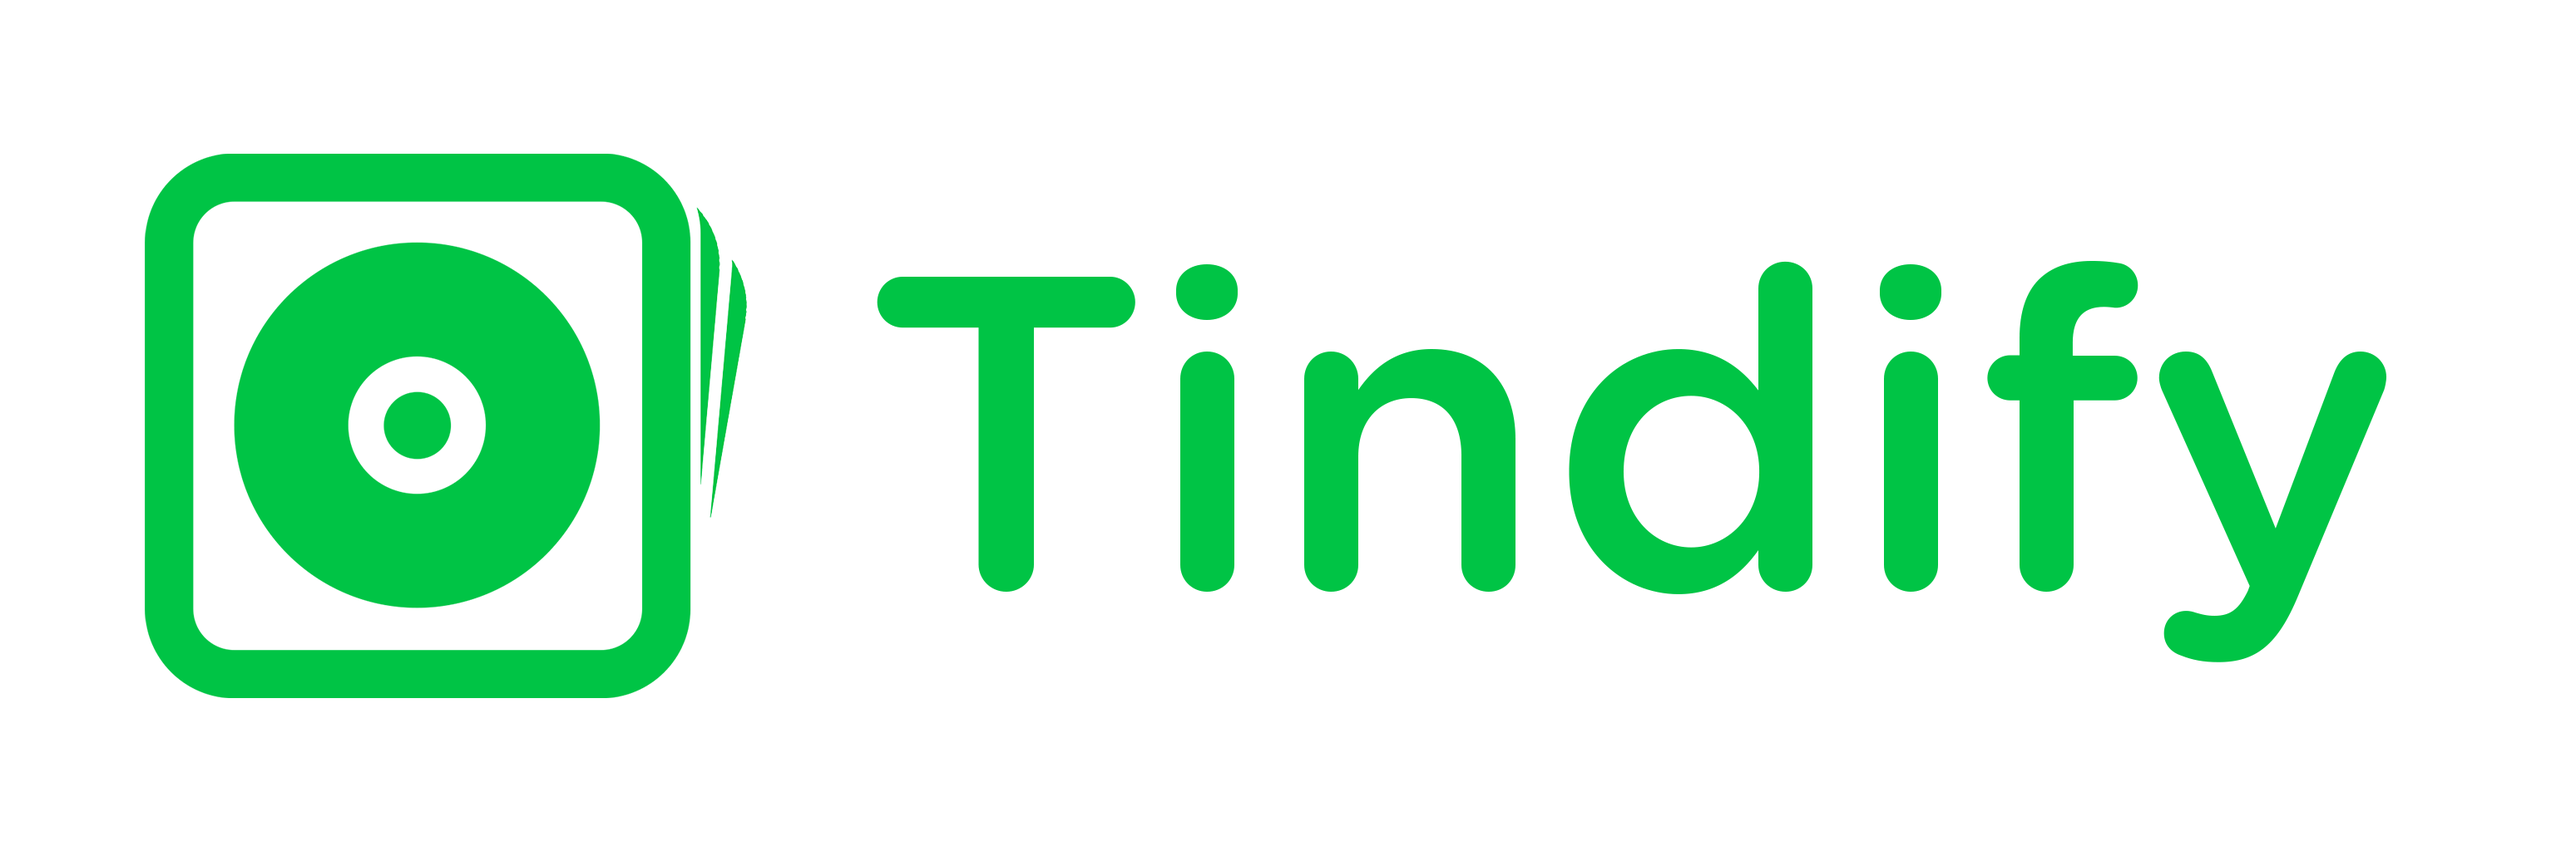
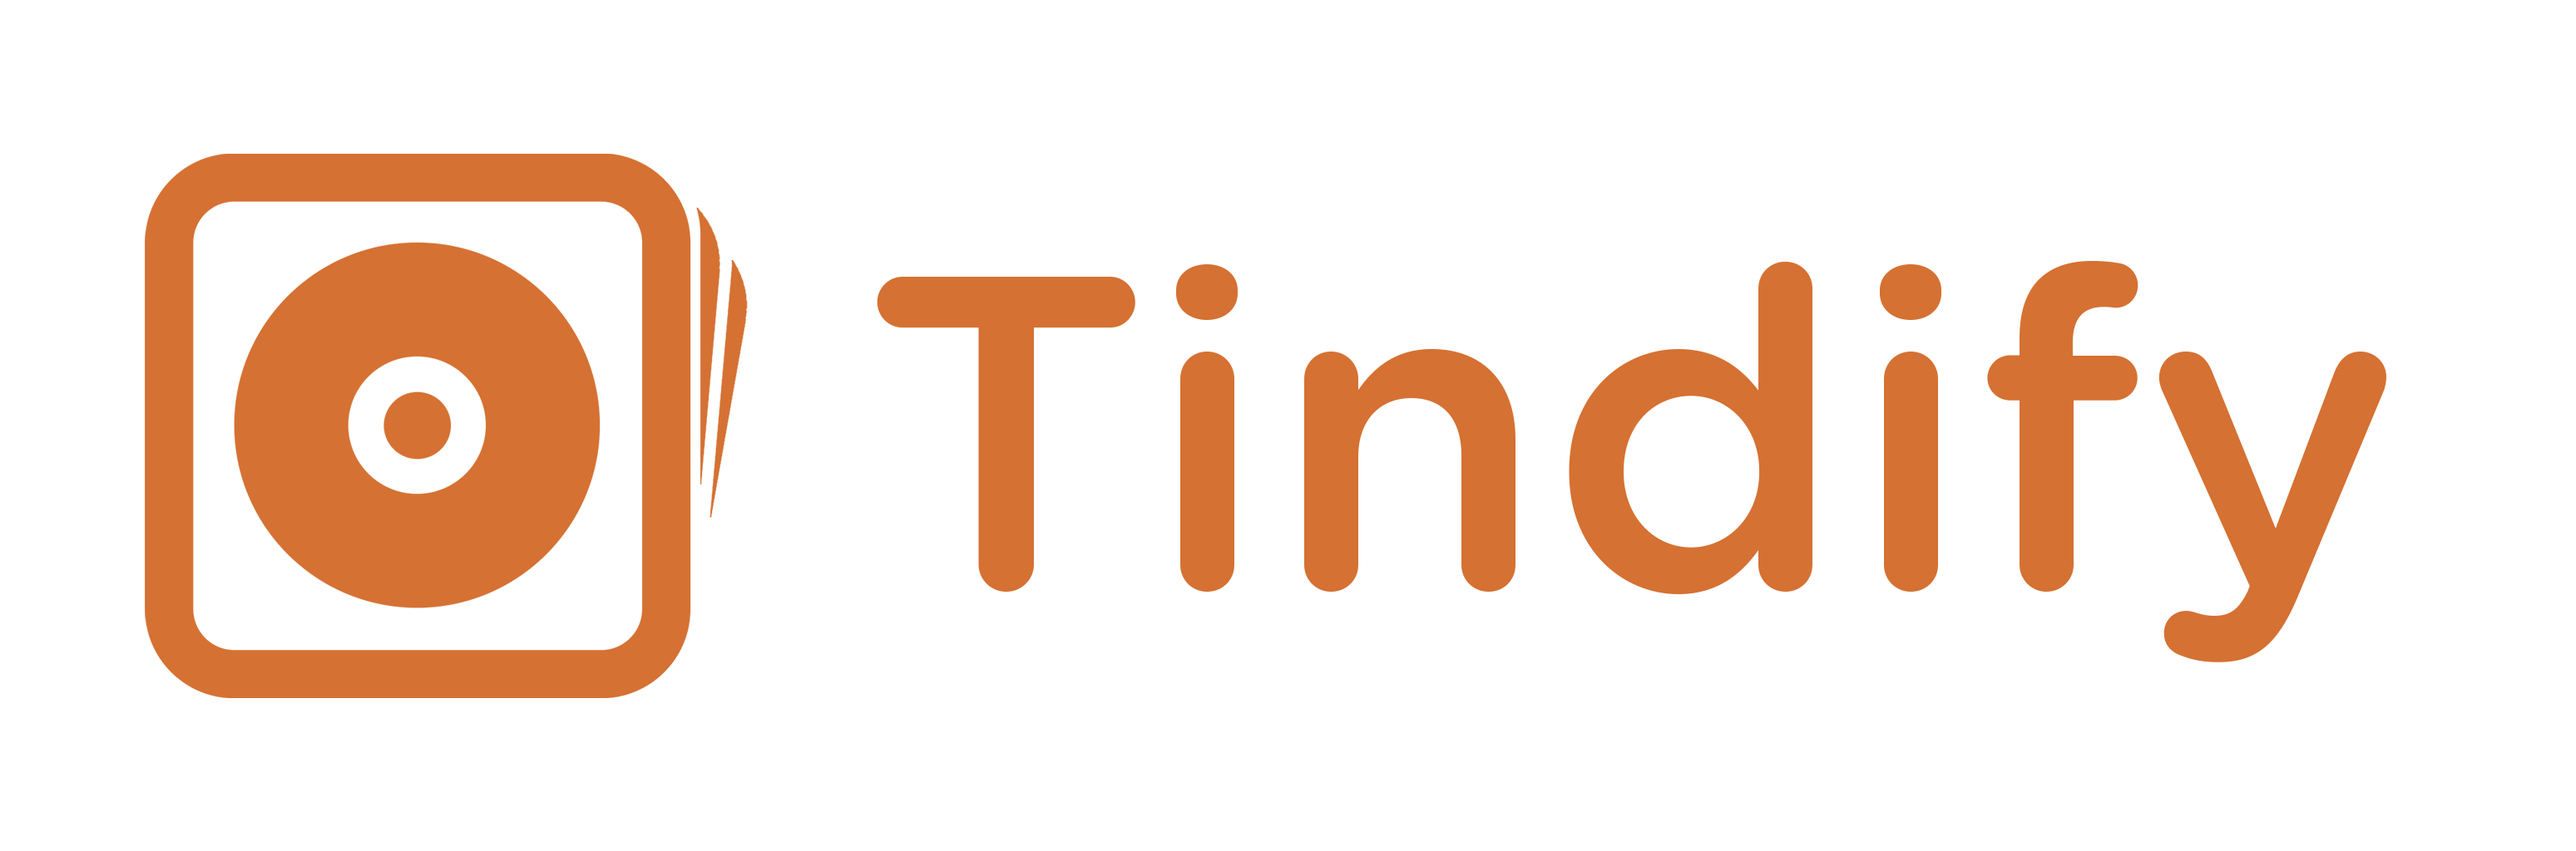
rethemed, changed cover to background not img

Changed region(s): [[0.031, 0.1562, 0.31, 0.8438], [0.434, 0.2812, 0.9299, 0.7812], [0.341, 0.3125, 0.496, 0.6875]]

diff --git a/styles/player.css b/styles/player.css
@@ -1,0 +1,128 @@
+/* Player card */
+
+.card-stack {
+    margin: 10px;
+    display: flex;
+    justify-content: center;
+}
+
+.card {
+    color: white;
+    background-color: #1d1d1d;
+    box-shadow: 0 3px 6px rgba(0,0,0,0.16), 0 3px 6px rgba(0,0,0,0.23);
+    display: inline-block;
+    overflow-x: hidden;
+}
+
+@media all and (orientation: portrait) {
+    .card {
+        width: 65vw;
+    }
+
+    #cover {
+        width: 65vw;
+        height: 75vw;
+    }
+}
+
+@media all and (orientation: landscape) {
+    .card {
+        width: 50vh;
+    }
+
+    #cover {
+        width: 50vh;
+        height: 60vh;
+    }
+}
+
+
+#cover {
+    background-size: cover;
+    background-position: center;
+}
+
+.card-text {
+    padding: 10px;
+    font-family: "Poppins", sans-serif;
+}
+
+.card-title {
+    margin-top: 0;
+    margin-bottom: 0;
+    font-weight: 500;
+    font-size: 18pt;
+}
+
+#song-title {
+    width: 470px;
+    white-space: nowrap;
+    overflow: hidden;
+    text-overflow: ellipsis;
+    font-family: 'Fjalla One', "Poppins", sans-serif;
+}
+
+#song-artist {
+    width: 470px;
+    white-space: nowrap;
+    overflow: hidden;
+    text-overflow: ellipsis;
+}
+
+/* Controller + Buttons */
+
+.controller {
+    margin-top: 25px;
+    display: flex;
+    justify-content: center;
+}
+
+.buttons {
+    width: 350px;
+    display: flex;
+    justify-content: space-evenly;
+}
+
+.buttons > button {
+    border-radius: 50%;
+    width: 55px;
+    height: 55px;
+    border: 6px #1d1d1d solid;
+    background-color: #1d1d1d;
+    box-shadow: 0 3px 6px rgba(0,0,0,0.16), 0 3px 6px rgba(0,0,0,0.23);
+    background-size: cover;
+}
+.buttons > button.disabled {
+    border-radius: 50%;
+    width: 55px;
+    height: 55px;
+    border: 6px #a5a5a5 solid;
+    background-color: #a5a5a5 !important;
+    box-shadow: 0 3px 6px rgba(0,0,0,0.16), 0 3px 6px rgba(0,0,0,0.23);
+}
+
+/* Specific buttons */
+
+.nope {
+    background-image: url(/assets/nope_button.png);
+}
+
+.play {
+    background-image: url(/assets/play_button.png);
+}
+.play.playing {
+    border: 6px #00c445 solid !important;
+    background-color: #00c445 !important;
+    background-image: url(/assets/play_button_active.png) !important;
+}
+
+.like {
+    background-image: url(/assets/like_button.png);
+}
+
+.back {
+    background-image: url(/assets/rewind_button.png);
+}
+.back.disabled {
+    background-image: url(/assets/rewind_button_disabled.png) !important;
+}

diff --git a/index.html b/index.html
@@ -3,8 +3,9 @@
         <link rel="icon" href="/favicon.ico?v=1.1">
         <link rel="preconnect" href="https://fonts.googleapis.com">
         <link rel="preconnect" href="https://fonts.gstatic.com" crossorigin>
-        <link href="https://fonts.googleapis.com/css2?family=Poppins:wght@400;500&display=swap" rel="stylesheet">
-        <link rel="stylesheet" href="main.css" type="text/css" />
+        <link href="https://fonts.googleapis.com/css2?family=Fjalla+One&family=Poppins:wght@400;500&display=swap" rel="stylesheet">
+        <link rel="stylesheet" href="styles/main.css" type="text/css" />
+        <link rel="stylesheet" href="styles/player.css" type="text/css" />
         <title>Tindify</title>
         <link rel="stylesheet" href="https://cdnjs.cloudflare.com/ajax/libs/font-awesome/6.1.1/css/fontawesome.min.css" integrity="sha512-xX2rYBFJSj86W54Fyv1de80DWBq7zYLn2z0I9bIhQG+rxIF6XVJUpdGnsNHWRa6AvP89vtFupEPDP8eZAtu9qA==" crossorigin="anonymous" referrerpolicy="no-referrer" />
     </head>
@@ -18,7 +19,7 @@
             <div class="feed">
                 <div class="card-stack">
                     <div class="card">
-                        <img id="cover" width="500px" height="500px" src="https://i.scdn.co/image/ab67616d0000b273a1a30cf13d406a0d5d33ae53" />
+                        <div id="cover"></div>
                         <div class="card-text">
                             <h3 class="card-title" id="song-title">Title of Song</h3>
                             <div id="song-artist">Artist</div>
@@ -27,7 +28,7 @@
                 </div>
                 <div class="controller">
                     <div class="buttons">
-                        <button class="back disabled"></button>
+                        <button class="back"></button>
                         <button class="nope" id="nope-button"></button>
                         <button class="play" id="play-button"></button>
                         <button class="like" id="like-button"></button>

diff --git a/styles/main.css b/styles/main.css
@@ -1,0 +1,72 @@
+/* Background hue-shifting */
+
+html, body {
+    margin: 0;
+    padding: 0;
+}
+
+#bkg {
+    position: absolute;
+    width: 100vw;
+    height: 100vh;
+    background: rgb(21,125,126);
+    background: linear-gradient(0deg, rgba(21,125,126,1) 0%, rgba(128,93,76,1) 50%, rgba(171,126,30,1) 100%);
+    z-index: -100;
+    animation: 20s hue infinite;
+}
+
+@keyframes hue {
+    0% {
+        filter: hue-rotate(0deg);
+    }
+    50% {
+        filter: hue-rotate(-20deg);
+    }
+    100% {
+        filter: hue-rotate(0deg);
+    }
+}
+
+/* Navbar */
+
+.logo {
+    position: absolute;
+    display: inline-block;
+    width: 100vw;
+    background-color: #1d1d1d;
+    box-shadow: 0 3px 6px rgba(0,0,0,0.16), 0 3px 6px rgba(0,0,0,0.23);
+    margin-bottom: 10px;
+    z-index: 2;
+}
+
+.logo-img {
+    margin-left: 7px;
+}
+
+.spotify-login {
+    float: right;
+    padding: 10px;
+    border-radius: 25px;
+    /* background-color: rgb(24, 151, 45); */
+    background-color: #d57132;
+    color: white;
+    font-family: "Poppins", sans-serif;
+    text-decoration: none;
+    vertical-align: middle;
+    margin-top: 7px;
+    margin-right: 7px;
+}
+
+/* Main content alignment */
+
+.view-align {
+    display: flex;
+    justify-content: center;
+    align-items: center;
+    height: calc(100vh - 62px);
+    transform:translateY(31px);
+}
+
+.feed {
+    display: inline-block;
+}

diff --git a/player.js b/player.js
@@ -58,7 +58,7 @@ window.onSpotifyWebPlaybackSDKReady = () => {
         if (!paused) document.getElementById("play-button").classList.add("playing");
         // Get album cover
         var url = current_track.album.images[0].url;
-        document.getElementById("cover").src = url;
+        document.getElementById("cover").style = "background-image: url(" + url + ")";
         // Get song title
         var title = current_track.name;
         document.getElementById("song-title").innerText = title;
